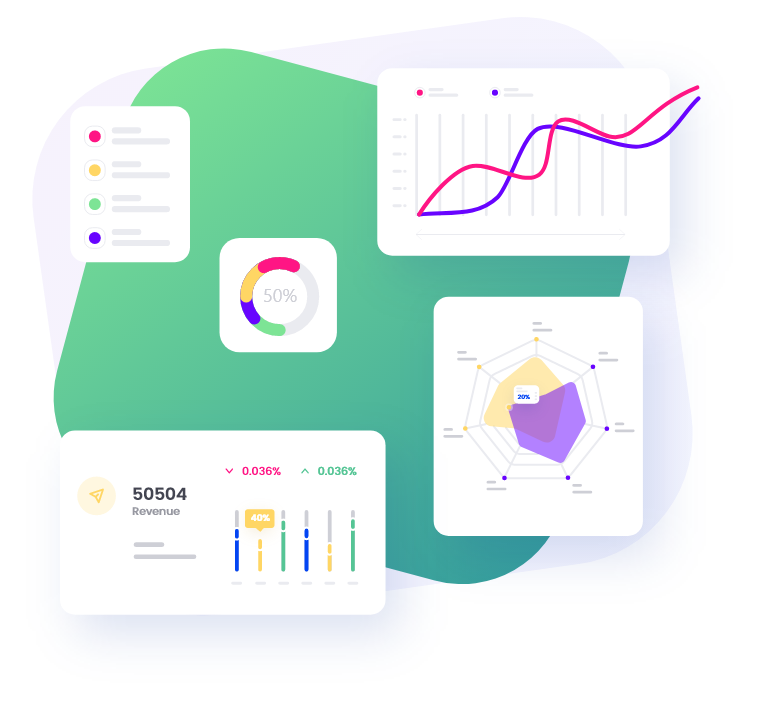
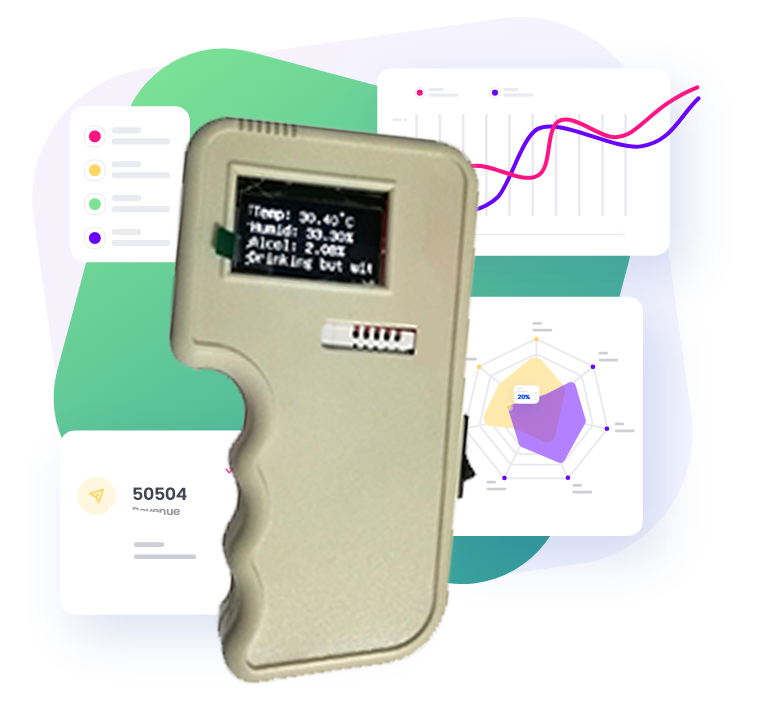
Update Paragraph
Alcol test

Changed region(s): [[0.2118, 0.1551, 0.6355, 0.9619], [0.1816, 0.7137, 0.2118, 0.7447]]

diff --git a/index.html b/index.html
@@ -47,25 +47,25 @@
     <!-- Header Area -->
     <header class="main_header_area">
         <div class="container">
-            <nav class="navbar theme-main-header one-page-menu navbar-expand-lg"> 
+            <nav class="navbar theme-main-header one-page-menu navbar-expand-lg">
                 <div class="navbar-brand">
-                       <a class="logo" href="index.html"><img src="images/logo/logo.png" alt=""></a>   
+                    <a class="logo" href="index.html"><img src="images/logo/logo.png" alt=""></a>
                 </div>
                 <!-- Small Divice Menu-->
-                <button class="navbar-toggler" type="button" data-toggle="collapse" data-target=".navbar_supported"> 
+                <button class="navbar-toggler" type="button" data-toggle="collapse" data-target=".navbar_supported">
                     <i class="fa fa-bars"></i>
                 </button>
                 <!-- Left Nav bar -->
-                <div class="collapse navbar-collapse navbar_supported"> 
+                <div class="collapse navbar-collapse navbar_supported">
                     <ul class="navbar-nav">
                         <!--<li class="dropdown">
-        <a class="nav-link dropdown-toggle active" href="#" role="button" data-toggle="dropdown">My </a>
-        <ul class="dropdown-menu">
-            <li><a href="index.html">خانه 1</a></li>
-            <li><a href="index-2.html">خانه 2</a></li>
-            <li><a href="index-3.html">خانه 3</a></li>
-        </ul>
-    </li>-->
+                            <a class="nav-link dropdown-toggle active" href="#" role="button" data-toggle="dropdown">My </a>
+                            <ul class="dropdown-menu">
+                                <li><a href="index.html">خانه 1</a></li>
+                                <li><a href="index-2.html">خانه 2</a></li>
+                                <li><a href="index-3.html">خانه 3</a></li>
+                            </ul>
+                        </li>-->
                         <!--<li><a href="#testimonial">Customers</a></li>-->
                         <li><a href="#screen">Operations</a></li>
                         <li><a href="#works">Jobs</a></li>
@@ -73,16 +73,16 @@
 
 
 
-                    </ul>   
-                </div> 
-                <!-- Right Nav bar --> 
-                <!--<ul class="right_nav d-none d-sm-block">   
+                    </ul>
+                </div>
+                <!-- Right Nav bar -->
+                <!--<ul class="right_nav d-none d-sm-block">
                     <li>
                         <a class="theme_btn" href="#"><img src="images/icon/drive1.png" alt=""> دانلود</a>
-                    </li>   
-                </ul>-->  
-            </nav> 
-        </div>    
+                    </li>
+                </ul>-->
+            </nav>
+        </div>
     </header>
     <!--Header Area-->
     <!--banner start-->
@@ -104,28 +104,29 @@
         </div>
         <div class="container">
             <div class="row">
-                <img style="height: 15%; border-radius: 35px;" src="images/testimonial/03.jpg" alt=""data-wow-delay="3.3s" class="wow col-md-4">
+                <img style="height: 15%; border-radius: 35px;" src="images/testimonial/03.jpg" alt="" data-wow-delay="3.3s" class="wow col-md-4">
                 <div class="col-lg-6">
                     <div class="banner_content">
-                        
+
                         <h1 class="wow fadeInLeft animated" data-wow-delay="0.7s">Amirhomayoon Ebrahimi<br></h1>
-                      
-                       
-                      
+
+
+
                     </div>
                 </div>
                 <div class="col-lg-6">
                     <p class="wow fadeInLeft animated header_Descr" data-wow-delay="0.9s">
                         Full Stack developer with ten years of experience from Iran in various positions in the field of informatics, project manager, programmer engineer, informatics consultant and aviation electronics ✈.
                     </p>
-                    </div></div>
+                </div>
+            </div>
             <!--./row-->
         </div>
         <!--./container-->
     </section>
     <!--banner end-->
     <!--app_feature start-->
-    <section id="feature" class="app_feature"> 
+    <section id="feature" class="app_feature">
         <div class="container">
             <div class="row">
                 <div class="title">
@@ -195,7 +196,7 @@
                                         <span>🔸</span><a target="_blank" href="https://laitec.ir/certification-verification/show/kOdJNzXdAp">CEH</a><span>Certified Ethical Hacker</span>2014-5-4262</br>
                                     </p>
                                 </div>
-                               
+
                             </div>
                         </div>
                     </div><!--/.row-->
@@ -228,7 +229,7 @@
                                 This printer has the ability to print up to 35 x 35 x 35 and uses the usual software on the market.
                             </p>
                         </div>
-                      
+
                     </div>
                 </div>
             </div><!--/.row-->
@@ -251,14 +252,15 @@
                         <div class="title dirLeft">
                             <h2>Hexarotor UAV</h2>
                             <p>
-                                This hexa was the first cargo hexa up to 5 kg in Iran in 2014 when I accompanied a technical team and the drone had ground station systems and an autopilot was ready and the first drone connected to the 3G system with the ability to transfer images from a control center It was scalable to several points</p>
-                       <p>
-                        This issue has been registered in one of the famous Iranian newspapers.
-                       </p>
-                            </div>
-                </div>
-            </div><!--/.row-->
-        </div><!--/.container-->
+                                This hexa was the first cargo hexa up to 5 kg in Iran in 2014 when I accompanied a technical team and the drone had ground station systems and an autopilot was ready and the first drone connected to the 3G system with the ability to transfer images from a control center It was scalable to several points
+                            </p>
+                            <p>
+                                This issue has been registered in one of the famous Iranian newspapers.
+                            </p>
+                        </div>
+                    </div>
+                </div><!--/.row-->
+            </div><!--/.container-->
     </section>
     <!--secure_business end-->
 
@@ -286,77 +288,79 @@
 
 
 
-     <!--<div class="container">
-    <div class="row feature_row align-items-center">
-        <div class="col-lg-7 col-md-12 col-12 order-lg-last order-md-last wow fadeInUp  animated" data-wow-delay="0.3s" style="visibility: visible; animation-delay: 0.3s; animation-name: fadeInUp;">
-            <div class="bar_item bar2">
-                <img class="img-fluid" src="images/feature/chart-img.png" alt="">
+    <div class="container">
+        <div class="row feature_row align-items-center">
+            <div class="col-lg-7 col-md-12 col-12 order-lg-last order-md-last wow fadeInUp  animated" data-wow-delay="0.3s" style="visibility: visible; animation-delay: 0.3s; animation-name: fadeInUp;">
+                <div class="bar_item bar2">
+                    <img class="img-fluid" src="images/feature/chart-img.png" alt="">
+                </div>
+            </div>
+            <div class="col-lg-5 col-md-12 col-12 wow fadeInUp  animated dirLeft" data-wow-delay="0.3s" style="visibility: visible; animation-delay: 0.3s; animation-name: fadeInUp;">
+                <div class="feature_box2">
+                    <div class="icon3 icon5">
+                        <img src="images/icon/icon10.png" alt="">
+                    </div>
+                    <h3>Alcohol testing </h3>
+                    <p>
+                        The alcohol test device based on C language programming has a MAC sensor and the ability to measure atmospheric pressure and air temperature. and detecting the amount of alcohol through breath.
+                    </p>
+                    <!--<a href="#" class="theme_btn line_btn2">بیشتر بخوانید</a>-->
+                </div>
             </div>
         </div>
-        <div class="col-lg-5 col-md-12 col-12 wow fadeInUp  animated" data-wow-delay="0.3s" style="visibility: visible; animation-delay: 0.3s; animation-name: fadeInUp;">
-            <div class="feature_box2">
-                <div class="icon3 icon5">
-                    <img src="images/icon/icon10.png" alt="">
-                </div>
-                <h3>ما یک ابزارک جدید افزودنی و سفارشی سازی را وارد کردیم</h3>
-                <p>لورم ایپسوم متن ساختگی با تولید سادگی نامفهوم از صنعت چاپ، و با استفاده از طراحان گرافیک است، چاپگرها و متون بلکه روزنامه و مجله در ستون و سطرآنچنان که لازم است.</p>
-                <a href="#" class="theme_btn line_btn2">بیشتر بخوانید</a>
-            </div>
-        </div>
-    </div> </div>
+    </div>
 
+    <!--
+        app_screenshot start
+        <section id="screen" class="app_screenshot">
+            <div class="container">
+                <div class="app_top_title">
+                    <div class="title">
+                        <h6 class="sub_title">Projects</h6>
+                        <h2>All programming projects<br>
+                            </h2>
 
-    app_screenshot start
-    <section id="screen" class="app_screenshot">
-        <div class="container">
-            <div class="app_top_title">
-                <div class="title">
-                    <h6 class="sub_title">Projects</h6>
-                    <h2>All programming projects<br>
-                        </h2>
-                   
-                </div>
-            </div>
-            <div class="swiper-container">
-                <div class="swiper-wrapper">
-                    <span>dddddddddd</span><br>
-                    <div class="swiper-slide">
-                       
-                        <img class="img-responsive" src="images/screenshot/shot1.png" alt="">
-                    </div>
-                    <div class="swiper-slide">
-                        <img class="img-responsive" src="images/screenshot/shot1.png" alt="">
-                    </div>
-                    <div class="swiper-slide">
-                        <img class="img-responsive" src="images/screenshot/shot1.png" alt="">
-                    </div>
-                    <span>56dfsdf6sf</span>
-                    <div class="swiper-slide">
-                       
-                        <img class="img-responsive" src="images/screenshot/shot1.png" alt="">
-                    </div>
-                    <div class="swiper-slide">
-                        <img class="img-responsive" src="images/screenshot/shot1.png" alt="">
-                    </div>
-                    <div class="swiper-slide">
-                        <img class="img-responsive" src="images/screenshot/shot1.png" alt="">
                     </div>
                 </div>
-                Add Pagination -->
-                <div class="swiper-pagination"></div>
-            </div>
-        </div><!--/.container-->
-      
+                <div class="swiper-container">
+                    <div class="swiper-wrapper">
+                        <span>dddddddddd</span><br>
+                        <div class="swiper-slide">
+
+                            <img class="img-responsive" src="images/screenshot/shot1.png" alt="">
+                        </div>
+                        <div class="swiper-slide">
+                            <img class="img-responsive" src="images/screenshot/shot1.png" alt="">
+                        </div>
+                        <div class="swiper-slide">
+                            <img class="img-responsive" src="images/screenshot/shot1.png" alt="">
+                        </div>
+                        <span>56dfsdf6sf</span>
+                        <div class="swiper-slide">
+
+                            <img class="img-responsive" src="images/screenshot/shot1.png" alt="">
+                        </div>
+                        <div class="swiper-slide">
+                            <img class="img-responsive" src="images/screenshot/shot1.png" alt="">
+                        </div>
+                        <div class="swiper-slide">
+                            <img class="img-responsive" src="images/screenshot/shot1.png" alt="">
+                        </div>
+                    </div>
+                    Add Pagination -->
+    <div class="swiper-pagination"></div>
+    </div>
+    </div><!--/.container-->
     </section>
     <!--app_screenshot end-->
-  
+
     <footer class="footer_area">
         <div class="container">
             <div class="row">
-       
+
                 <div class="col-lg-4 col-md-6 col-12 wow fadeInUp animated" data-wow-delay="0.9s">
                     <div class="footer_widget subscribe_area">
-                       
+
                         <ul class="social_list">
                             <h4>Contact me</h4>
                             <li><a href="https://github.com/amirhomayoon"><i class="fa fa-github fa-3"></i></a></li>
@@ -378,13 +382,6 @@
         </div><!--/.container-->
     </footer>
     <!--footer_area end-->
-
-
-
-
-
-
-
     <!-- Scroll Top Button -->
     <button class="scroll-top">
         <i class="fa fa-angle-double-up"></i>
@@ -392,7 +389,7 @@
 
     <!-- Preloader -->
     <div id="preloader"></div>
-    
+
 
     <!-- jQuery v3.3.1 -->
     <script src="js/jquery-3.4.1.min.js"></script>
